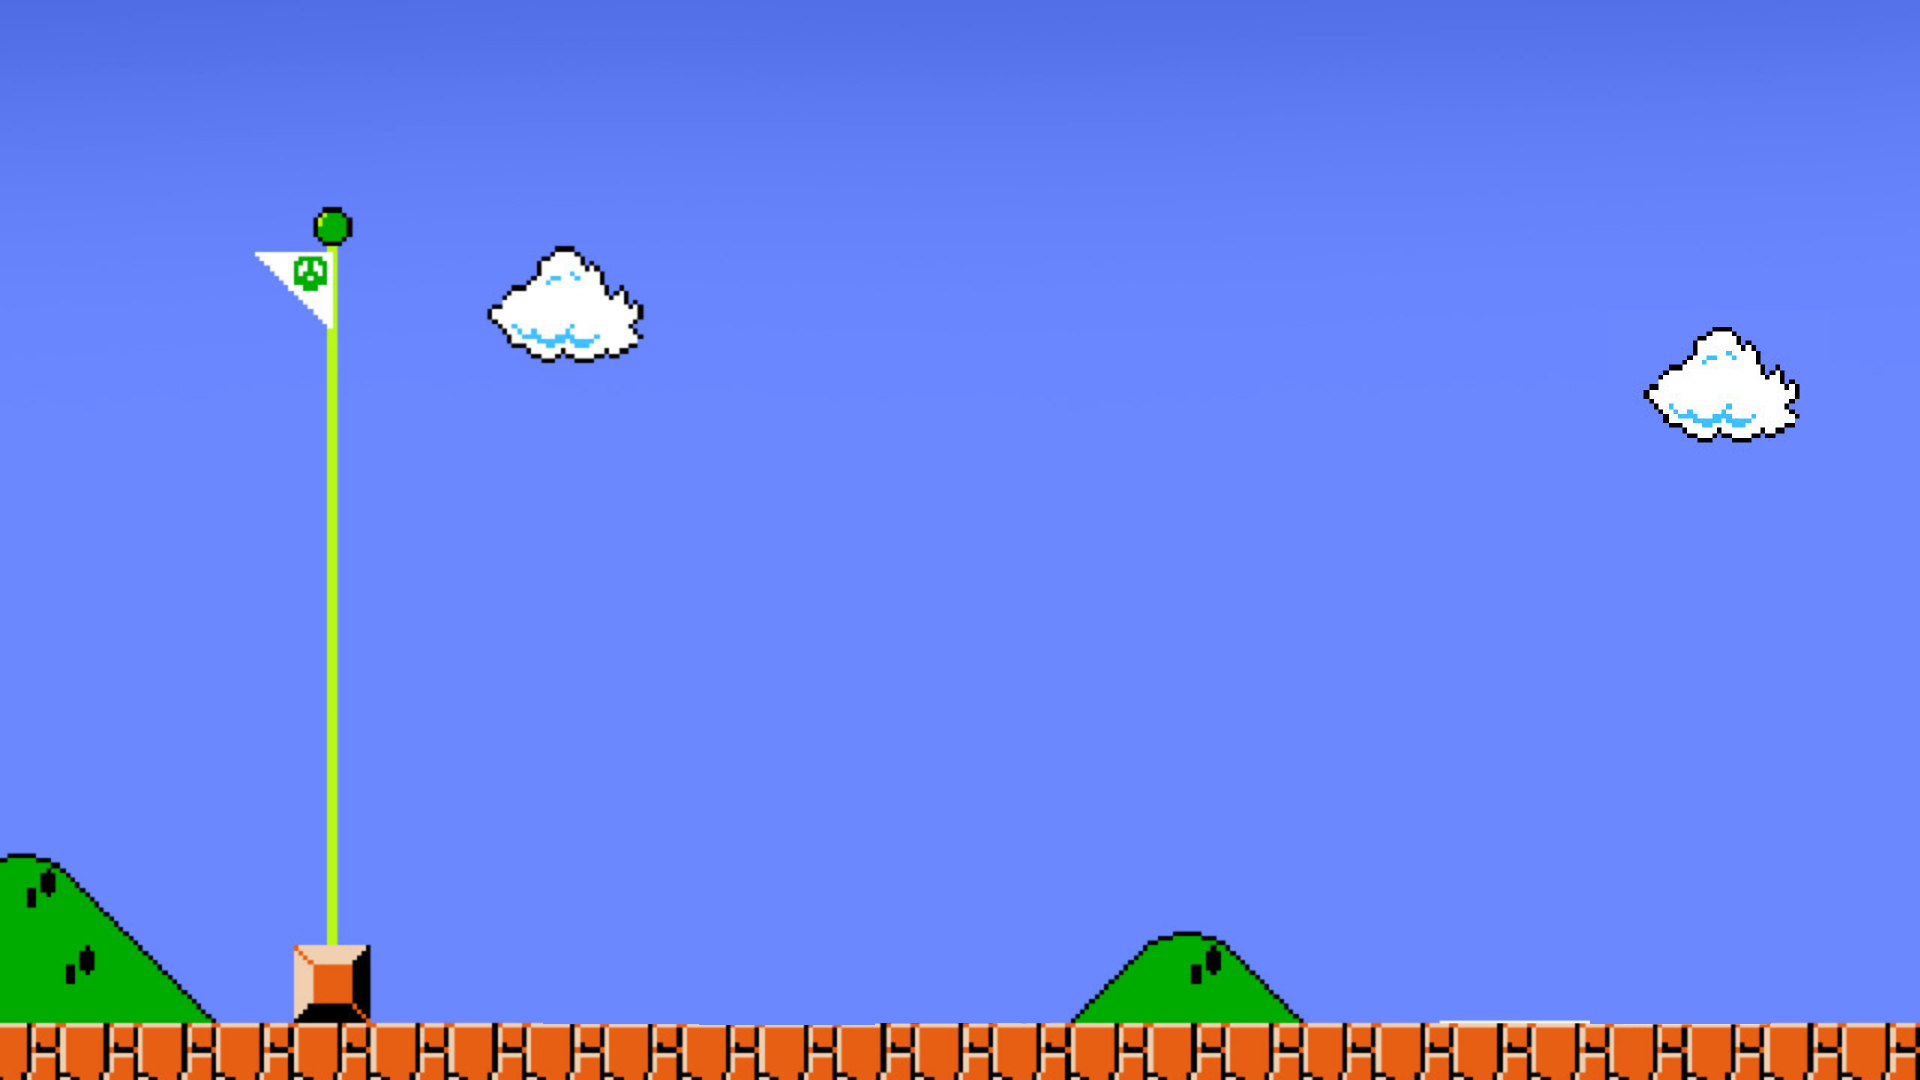
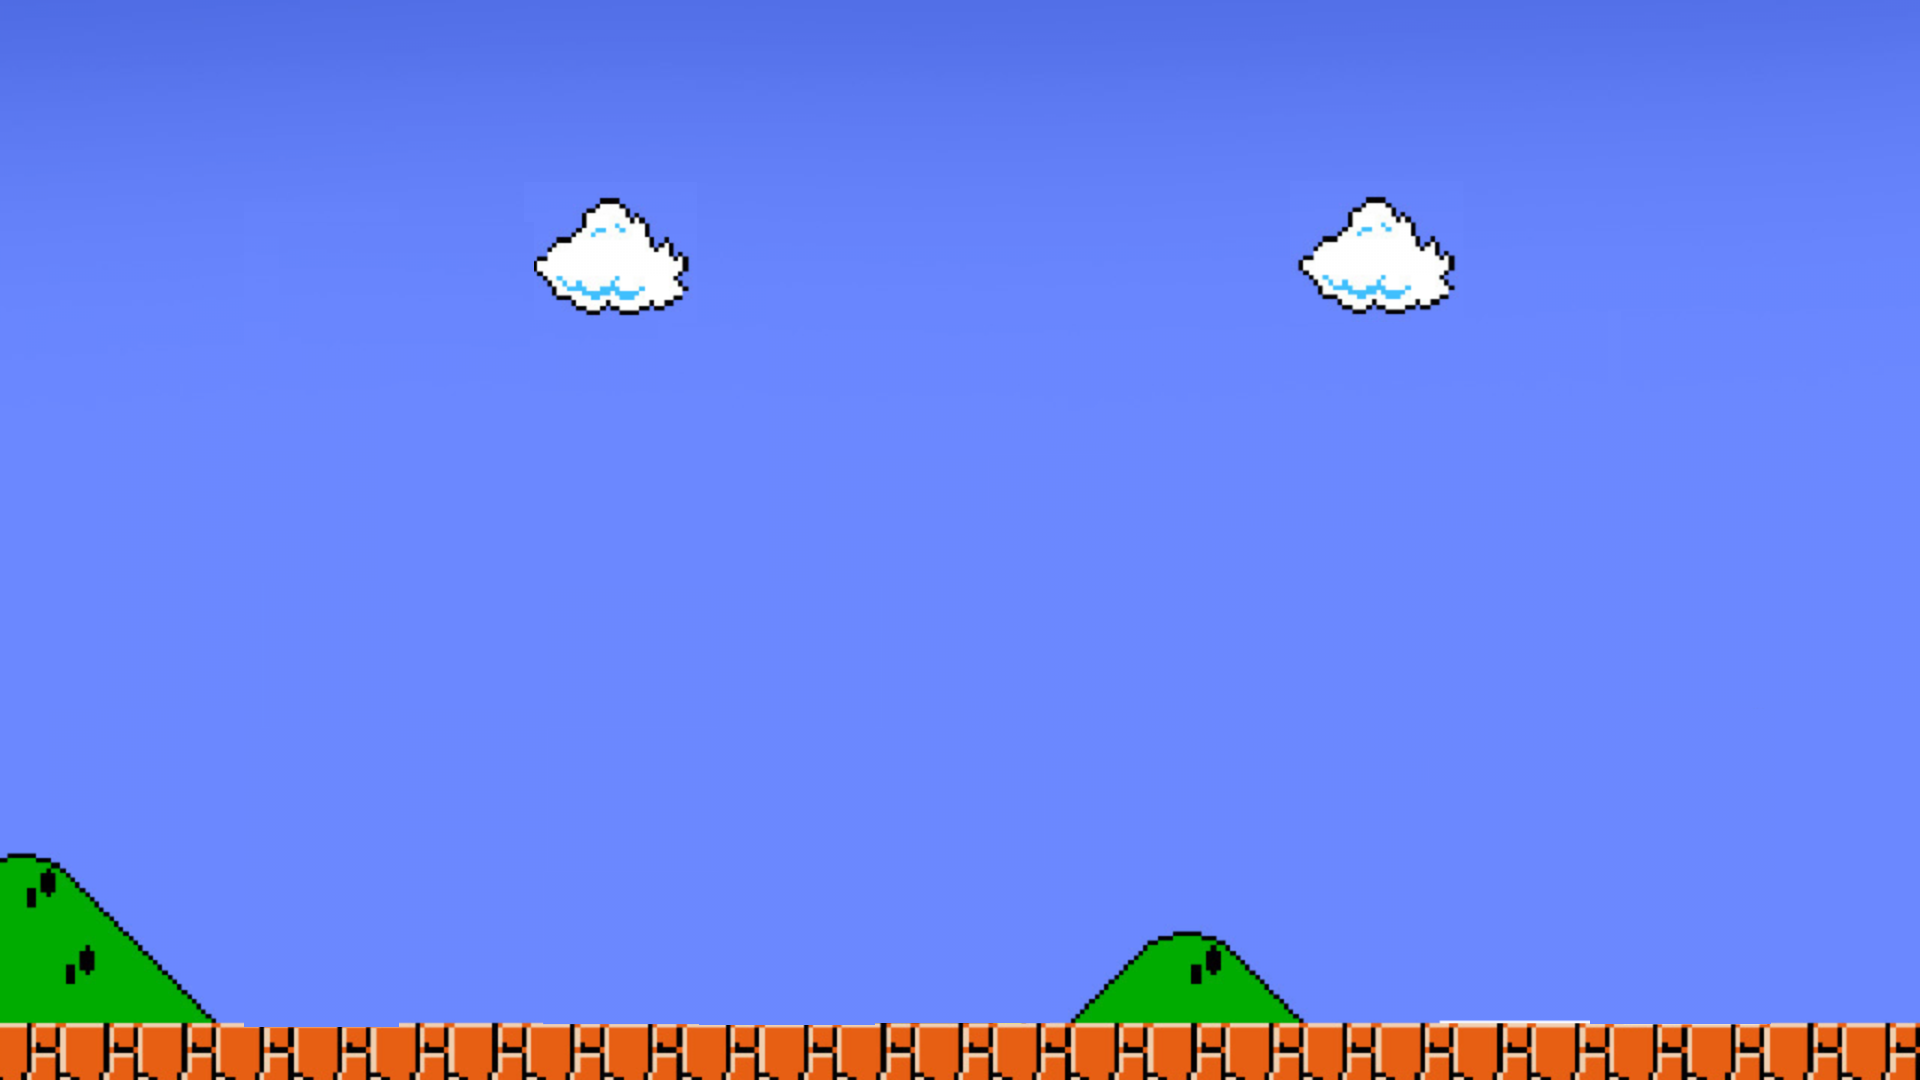
update the image background_mario.png + in the body add tag background-image + background-size of cover :arrow_right: style.css

diff --git a/css/style.css b/css/style.css
@@ -1,5 +1,7 @@
 body{
+    background-image: url('../images/background_mario.png');
     font-family: 'Architects Daughter', cursive;
+    background-size: cover;
 }
 
 .life{
